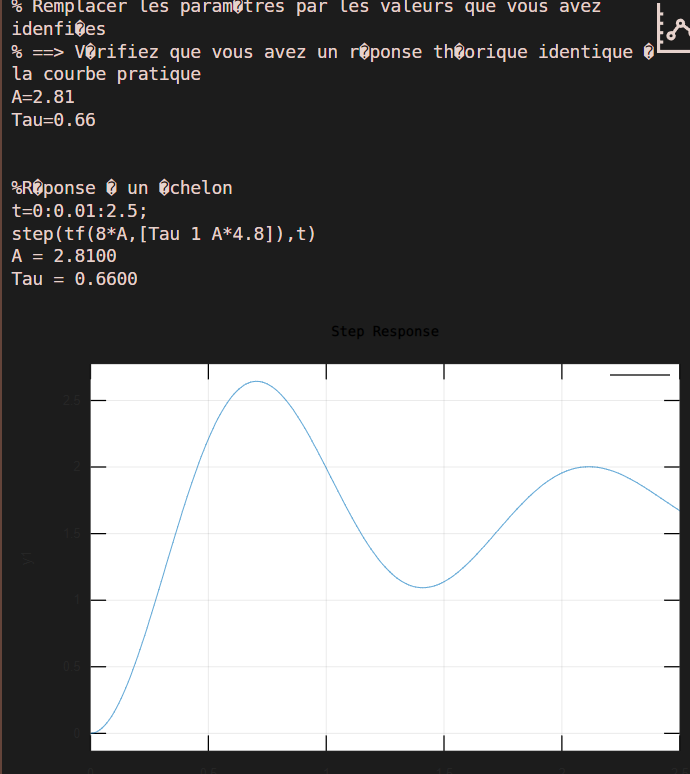
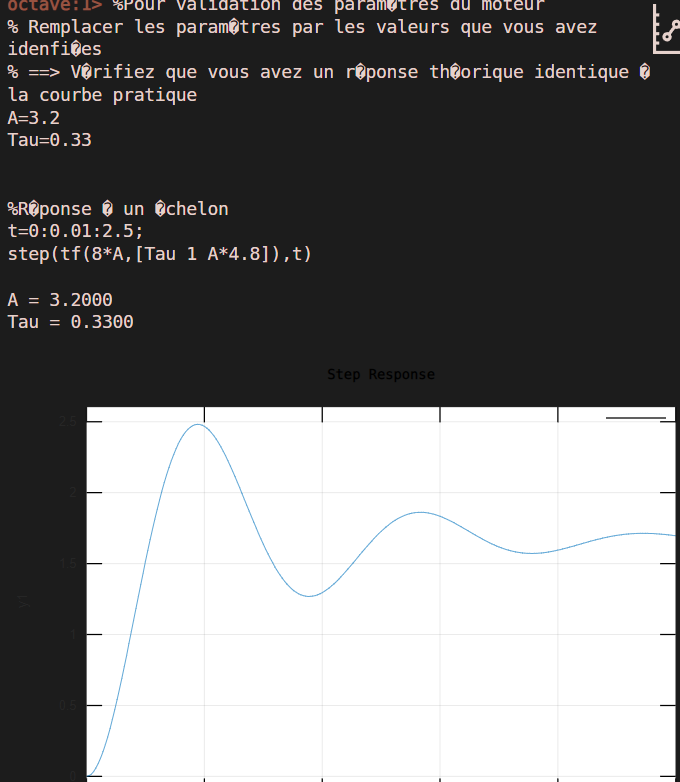
Partie A correction

diff --git a/MotorControlPython/mainAsservPython.py b/MotorControlPython/mainAsservPython.py
@@ -82,28 +82,45 @@ def updateGraph():
 
         txt.write("End :" + str(g_data1[-1]) + "\n")
 
-        # Coef amortissement
-        m = (g_data1[-1]-g_data1[0])/(overflows[0]-g_data1[0])
-        txt.write("Coef amortissement :" + str(round(m , 2)) + "\n")
-
+        # Depassement
+        dep = (((overflows[0]-g_data1[0])/(g_data1[-1]-g_data1[0]))*100) - 100
+        txt.write("Dépassement de :" + str(round(dep,2)) + "%\n")
+        m = 0.23
         # TR 5%
         final_value = g_data1[-1]
         threshold = final_value * 5 / 100
         stock = -1
+        isIn = False
 
         for i, value in enumerate(g_data1):
-            if stock == -1 and value > final_value - threshold and value < final_value + threshold:
+            if not isIn and value >= (final_value - threshold):
                 stock = i
-            elif stock != -1 and value < final_value - threshold and value > final_value + threshold:
-                stock = -1
+                isIn = True
+            elif not isIn and value <= (final_value + threshold):
+                stock = i
+                isIn = True
+            elif isIn and value < (final_value - threshold) or value > (final_value + threshold):
+                isIn = False
+
         # TR 5% every 10 ms
         txt.write("TR 5% : " + str(stock*10) + " ms\n")
 
-        #  fonction de transfert du système en boucle fermée
-
-
+        #  calcul A et teta
+        Ka = 30/(2*np.pi)
+        print(Ka)
+        w = 10/(stock*10/1000)
+        print(w)
+        Ad = 1
+        Ab = 1
+        A = (w/(2*m)) / (Ka*Ad*Ab)
+        txt.write("A : " + str(round(A, 2)) + "\n")
+        w2 = pow(w, 2)
+        teta = (1/w2) / ((2*m)/w)
+        txt.write("teta : " + str(round(teta, 2)) + "\n")
 
         txt.close()
+
+        
 
 
 

diff --git a/README.md b/README.md
@@ -11,17 +11,18 @@
 ![img_1.png](img_1.png)
 
 ### Valeur quand a
-Start :1089
-D0 : 3954 
-D1 : 2624 
-D2 : 3217 
-D3 : 2986 
-End :3002
-Coef amortissement :0.67
-TR 5% : 260 ms
+Start :1072
+0 : 3978 
+1 : 2601 
+2 : 3235 
+3 : 2977 
+End :3000
+Dépassement de :50.73%
+TR 5% : 1510 ms
+A : 3.02
+teta : 0.33
+
 
 ### calculer les valeurs de A et teta
-
-![img_2.png](img_2.png)
 
 ![img_3.png](img_3.png)
